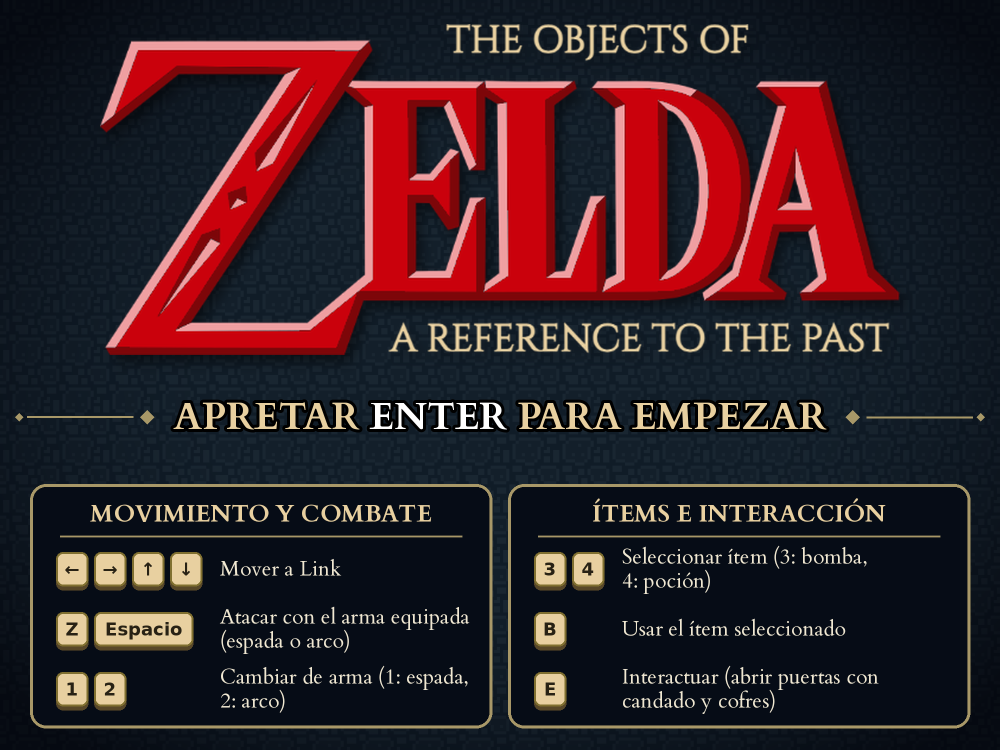
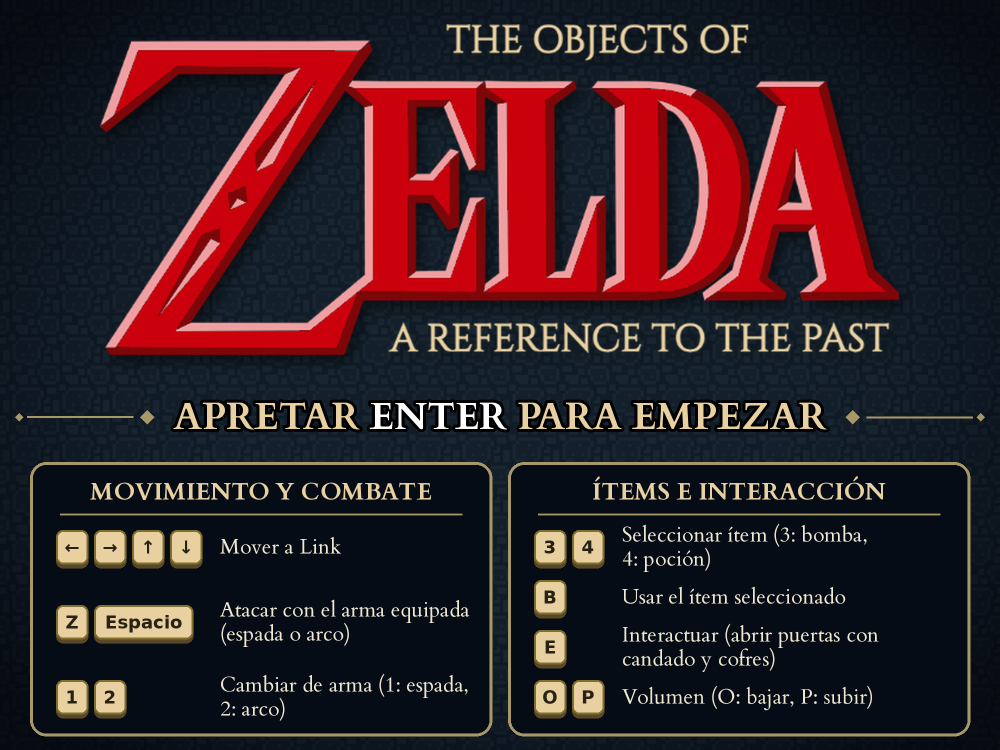
Volumen general (#23)
* Agregar control de volumen

* agregar capturas

* cambiar de portada

---------

Changed region(s): [[0.031, 0.6133, 0.992, 0.9813]]

diff --git a/README.md b/README.md
@@ -1,4 +1,4 @@
-# La mazmorra de Link
+# The objects of Zelda: a reference to the past.
 _(Git Grupal: https://docs.google.com/presentation/d/1-o5zEUfuUT72ea8q2rk8mwHSqMkdJvTyQ9Y8eqUTVZA/edit?usp=sharing)_
 
 ## Equipo de desarrollo
@@ -8,11 +8,8 @@ _(Git Grupal: https://docs.google.com/presentation/d/1-o5zEUfuUT72ea8q2rk8mwHSqM
 
 ## Capturas
 
-_(agregar capturas del juego)_
-
-## Gameplay
-
-_(video corto del juego andando)_
+![alt text](image-2.png)
+![alt text](image-1.png)
 
 ## Reglas de Juego / Instrucciones
 
@@ -31,6 +28,8 @@ _(video corto del juego andando)_
 - `3` / `4`: seleccionar ítem (`3`: bomba, `4`: poción).
 - `B`: usar el ítem seleccionado.
 - `E`: interactuar (abrir puertas con candado y cofres).
+- `O`: Bajar volumen.
+- `P`: Subir volumen.
 
 **Armas**
 - **Espada:** ataque cuerpo a cuerpo a la celda de adelante (1 de daño).
